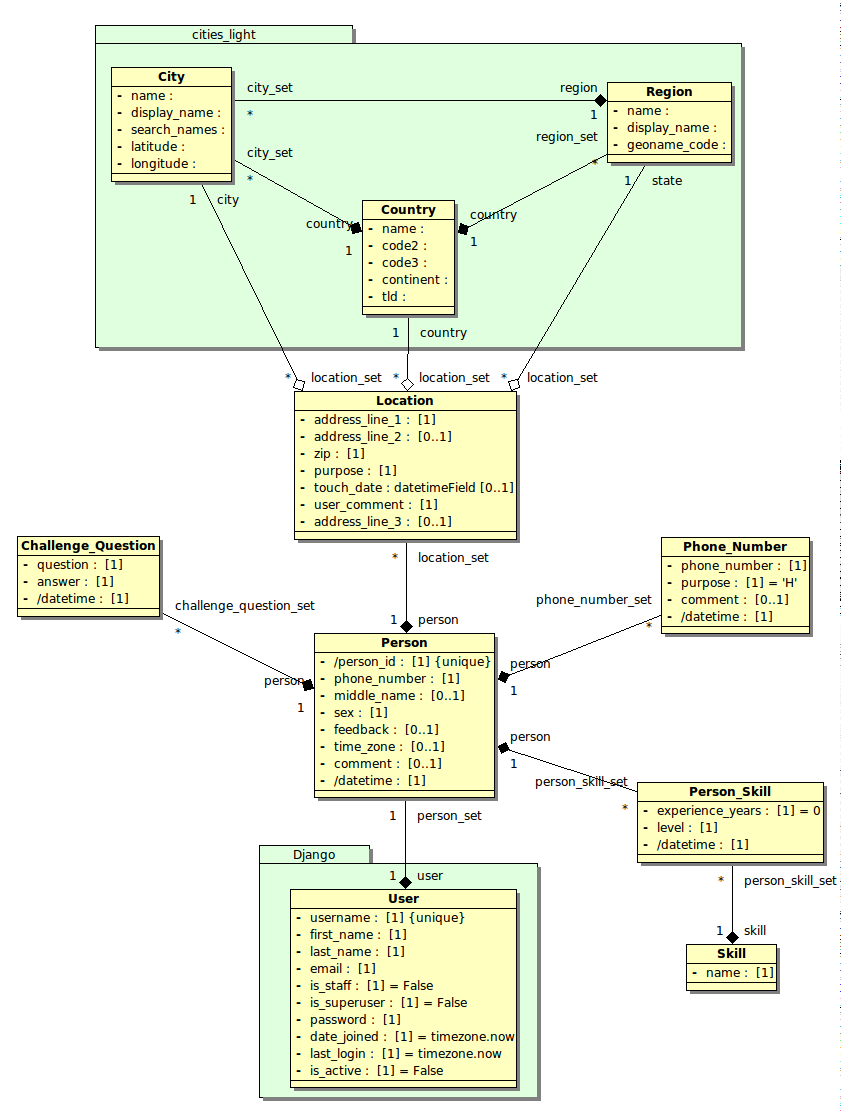
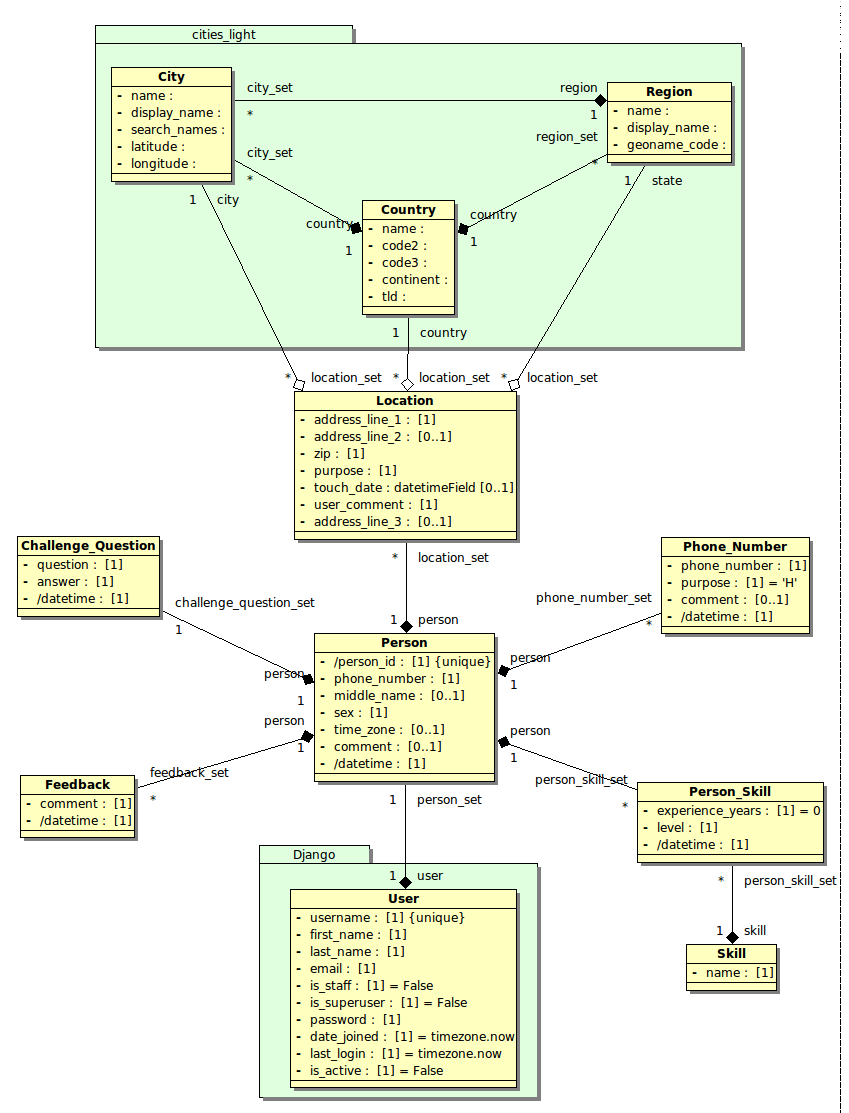
UML DB update

diff --git a/docs/bouml_DB/html doc/class141295.html b/docs/bouml_DB/html doc/class141295.html
@@ -30,20 +30,19 @@
 <table><tr><td><div class="element">Attribute <b>middle_name</b></div></td></tr></table>
 <p>Declaration :</p><ul><li>Uml : - middle_name : , multiplicity : 0..1</li><li>Python : self.middle_name = None<br /></li></ul><a name="refattribute137071"></a>
 <table><tr><td><div class="element">Attribute <b>sex</b></div></td></tr></table>
-<p>(('M', 'Male'), ('F', 'Female'))<br /></p><p>Declaration :</p><ul><li>Uml : - sex : , multiplicity : 1</li><li>Python : self.sex = None<br /></li></ul><a name="refattribute137583"></a>
-<table><tr><td><div class="element">Attribute <b>feedback</b></div></td></tr></table>
-<p>Feedback to CFGIO Large text field: What are we doing right, what are we doing wrong, and what can we do to serve your needs better? What are your priorities? Send CFGIO an email every time this field is changed.<br /></p><p>Declaration :</p><ul><li>Uml : - feedback : , multiplicity : 0..1</li><li>Python : self.feedback = None<br /></li></ul><a name="refattribute137711"></a>
+<p>(('M', 'Male'), ('F', 'Female'))<br /></p><p>Declaration :</p><ul><li>Uml : - sex : , multiplicity : 1</li><li>Python : self.sex = None<br /></li></ul><a name="refattribute137711"></a>
 <table><tr><td><div class="element">Attribute <b>time_zone</b></div></td></tr></table>
 <p>Declaration :</p><ul><li>Uml : - time_zone : , multiplicity : 0..1</li><li>Python : self.time_zone = None<br /></li></ul><a name="refattribute137839"></a>
 <table><tr><td><div class="element">Attribute <b>comment</b></div></td></tr></table>
 <p>internal CFGIO comment<br /></p><p>Declaration :</p><ul><li>Uml : - comment : , multiplicity : 0..1</li><li>Python : self.comment = None<br /></li></ul><a name="refrelation141935"></a>
-<table><tr><td><div class="element">Relation <b>challenge_question_set (&lt;composition&gt;)</b></div></td></tr></table><p>Declaration :</p><ul><li>Uml : - challenge_question_set : <a href="class147823.html#refclass147823"><b>Challenge_Question</b></a>, multiplicity : *</li><li>Python : self.challenge_question_set = <a href="class147823.html#refclass147823"><b>Challenge_Question</b></a>()<br /></li></ul><a name="refrelation142191"></a>
+<table><tr><td><div class="element">Relation <b>challenge_question_set (&lt;composition&gt;)</b></div></td></tr></table><p>Declaration :</p><ul><li>Uml : - challenge_question_set : <a href="class147823.html#refclass147823"><b>Challenge_Question</b></a>, multiplicity : 1</li><li>Python : self.challenge_question_set = <a href="class147823.html#refclass147823"><b>Challenge_Question</b></a>()<br /></li></ul><a name="refrelation142191"></a>
 <table><tr><td><div class="element">Relation <b>phone_number_set (&lt;composition&gt;)</b></div></td></tr></table><p>Declaration :</p><ul><li>Uml : - phone_number_set : <a href="class147951.html#refclass147951"><b>Phone_Number</b></a>, multiplicity : *</li><li>Python : self.phone_number_set = <a href="class147951.html#refclass147951"><b>Phone_Number</b></a>()<br /></li></ul><a name="refattribute141551"></a>
 <table><tr><td><div class="element">Attribute <b>datetime</b></div></td></tr></table>
 <p>auto_now_add=True<br /></p><p>Declaration :</p><ul><li>Uml : - datetime : , multiplicity : 1, derived</li><li>Python : self.datetime = None<br /></li></ul><a name="refrelation144751"></a>
 <table><tr><td><div class="element">Relation <b>person_skill_set (&lt;composition&gt;)</b></div></td></tr></table><p>Declaration :</p><ul><li>Uml : - person_skill_set : <a href="class148847.html#refclass148847"><b>Person_Skill</b></a>, multiplicity : *</li><li>Python : self.person_skill_set = <a href="class148847.html#refclass148847"><b>Person_Skill</b></a>()<br /></li></ul><a name="refrelation145391"></a>
 <table><tr><td><div class="element">Relation <b>project_set (&lt;composition&gt;)</b></div></td></tr></table><p>Declaration :</p><ul><li>Uml : - project_set : <a href="class149103.html#refclass149103"><b>Project</b></a>, multiplicity : *</li><li>Python : self.project_set = <a href="class149103.html#refclass149103"><b>Project</b></a>()<br /></li></ul><a name="refrelation152303"></a>
 <table><tr><td><div class="element">Relation <b>person_project_set (&lt;composition&gt;)</b></div></td></tr></table><p>Declaration :</p><ul><li>Uml : - person_project_set : <a href="class155631.html#refclass155631"><b>Person_Project</b></a>, multiplicity : *</li><li>Python : self.person_project_set = <a href="class155631.html#refclass155631"><b>Person_Project</b></a>()<br /></li></ul><a name="refrelation161007"></a>
-<table><tr><td><div class="element">Relation <b>project_comment_set (&lt;composition&gt;)</b></div></td></tr></table><p>personID (the person who commented on the project.  Anyone commenting has to register in order “to raise the level of discourse”. Can’t just let anybody comment. When prompting them to register, we state: “You can choose a screen name” and “We will not spam you or give your info to anybody”)<br /></p><p>Declaration :</p><ul><li>Uml : - project_comment_set : <a href="class162543.html#refclass162543"><b>Project_Comment</b></a>, multiplicity : *</li><li>Python : self.project_comment_set = <a href="class162543.html#refclass162543"><b>Project_Comment</b></a>()<br /></li></ul></div>
+<table><tr><td><div class="element">Relation <b>project_comment_set (&lt;composition&gt;)</b></div></td></tr></table><p>personID (the person who commented on the project.  Anyone commenting has to register in order “to raise the level of discourse”. Can’t just let anybody comment. When prompting them to register, we state: “You can choose a screen name” and “We will not spam you or give your info to anybody”)<br /></p><p>Declaration :</p><ul><li>Uml : - project_comment_set : <a href="class162543.html#refclass162543"><b>Project_Comment</b></a>, multiplicity : *</li><li>Python : self.project_comment_set = <a href="class162543.html#refclass162543"><b>Project_Comment</b></a>()<br /></li></ul><a name="refrelation167663"></a>
+<table><tr><td><div class="element">Relation <b>feedback_set (&lt;composition&gt;)</b></div></td></tr></table><p>Declaration :</p><ul><li>Uml : - feedback_set : <a href="class169071.html#refclass169071"><b>Feedback</b></a>, multiplicity : *</li><li>Python : self.feedback_set = <a href="class169071.html#refclass169071"><b>Feedback</b></a>()<br /></li></ul></div>
 </body>
 </html>

diff --git a/docs/bouml_DB/html doc/classes.html b/docs/bouml_DB/html doc/classes.html
@@ -23,7 +23,8 @@
 <tr bgcolor=#f0f0f0><td><a href="class162159.html#refclass162159" target = "projectFrame"><b>Connection_Approval</b></a></td><td></td><td>For internal mail system. Will you allow this person to connect  with you? Keep track of a lot of denials so that bad people can be blocked/banned.  Startups must carefully screen investors and get NDAs.</td></tr>
 <tr bgcolor=#f0f0f0><td><a href="class148207.html#refclass148207" target = "projectFrame"><b>Country</b></a></td><td></td><td></td></tr>
 <tr bgcolor=#f0f0f0><td><a href="class148591.html#refclass148591" target = "projectFrame"><b>Developer</b></a></td><td></td><td></td></tr>
-<tr bgcolor=#f0f0f0><td><a href="class141167.html#refclass141167" target = "projectFrame"><b>Location</b></a></td><td></td><td></td></tr>
+<tr bgcolor=#f0f0f0><td><a href="class169071.html#refclass169071" target = "projectFrame"><b>Feedback</b></a></td><td></td><td>Feedback to CFGIO Large text field: What are we doing right, what are we doing wrong, and what can we do to serve your needs better? What are your priorities? Send CFGIO an email every time the comment field is changed.</td></tr>
+<tr bgcolor=#f0f0f0><td><a href="class141167.html#refclass141167" target = "projectFrame"><b>Location</b></a></td><td></td><td>There's a physical security issue here. I think that admin should be able to see address for authentication purposes but it should be hidden from all users (developer-trainees, startups, investors). If user wants to email someone their address, that's their decision.  So can address please be masked?  The comment (hidden also) can be used for things like letting us know is it a business address, home address, etc.</td></tr>
 <tr bgcolor=#f0f0f0><td><a href="class162287.html#refclass162287" target = "projectFrame"><b>Mail_Send</b></a></td><td></td><td>for internal email.  This is how someone sends an internal email to someone.  Need code to copy this email data to recipient’s email box and set a flag stating “you have mail!”</td></tr>
 <tr bgcolor=#f0f0f0><td><a href="class141295.html#refclass141295" target = "projectFrame"><b>Person</b></a></td><td></td><td>Multi-table inheritance<br /><br />Person Supertype. All people are centralized here. Sub-types are in other tables. A person can belong to multiple groups (client and developer). “No one can see your personal info including name, email, phone, address”.</td></tr>
 <tr bgcolor=#f0f0f0><td><a href="class155631.html#refclass155631" target = "projectFrame"><b>Person_Project</b></a></td><td></td><td></td></tr>

diff --git a/docs/bouml_DB/html doc/class169071.html b/docs/bouml_DB/html doc/class169071.html
@@ -1,0 +1,29 @@
+<!-- Documentation produced by the Html generator of Bouml (http://bouml.free.fr) -->
+<?xml version="1.0" encoding="UTF-8"?>
+<!DOCTYPE html PUBLIC "-//W3C//DTD XHTML 1.0 Transitional//EN" "http://www.w3.org/TR/xhtml1/DTD/xhtml1-transitional.dtd">
+<html xmlns="http://www.w3.org/1999/xhtml">
+
+<head>
+<title>Class Feedback</title>
+<link rel="stylesheet" href="style.css" type="text/css" />
+</head>
+
+<body bgcolor="#ffffff">
+
+<div class = "title">Class Feedback</div>
+<p></p>
+
+<!-- ============================================================= -->
+
+<a name="refclass169071"></a>
+<p>Feedback to CFGIO Large text field: What are we doing right, what are we doing wrong, and what can we do to serve your needs better? What are your priorities? Send CFGIO an email every time the comment field is changed.<br /></p>
+<p>Declaration :</p><ul>
+<li>Python : class Feedback(object)</li></ul><div class="sub">
+<a name="refattribute166255"></a>
+<table><tr><td><div class="element">Attribute <b>comment</b></div></td></tr></table>
+<p>Declaration :</p><ul><li>Uml : - comment : , multiplicity : 1</li><li>Python : self.comment = None<br /></li></ul><a name="refattribute166383"></a>
+<table><tr><td><div class="element">Attribute <b>datetime</b></div></td></tr></table>
+<p>auto_now_add=True<br /></p><p>Declaration :</p><ul><li>Uml : - datetime : , multiplicity : 1, derived</li><li>Python : self.datetime = None<br /></li></ul><a name="refrelation167791"></a>
+<table><tr><td><div class="element">Relation <b>person (&lt;composition&gt;)</b></div></td></tr></table><p>Declaration :</p><ul><li>Uml : - person : <a href="class141295.html#refclass141295"><b>Person</b></a>, multiplicity : 1</li><li>Python : self.person = <a href="class141295.html#refclass141295"><b>Person</b></a>()<br /></li></ul></div>
+</body>
+</html>

diff --git a/docs/bouml_DB/html doc/index_76.html b/docs/bouml_DB/html doc/index_76.html
@@ -24,7 +24,7 @@
 <tr bgcolor=#f0f0f0><td><a href="index.html#refattribute140911" target = "projectFrame"><b>latitude</b></a></td><td>attribute</td><td></td></tr>
 <tr bgcolor=#f0f0f0><td><a href="index.html#refattribute151151" target = "projectFrame"><b>lessons_learned</b></a></td><td>attribute</td><td>long text.  This must be open to public so all can learn.  Don’t use anyone’s real name</td></tr>
 <tr bgcolor=#f0f0f0><td><a href="index.html#refattribute141935" target = "projectFrame"><b>level</b></a></td><td>attribute</td><td>(('A', 'A'), ('B', 'B'),  ('C', 'C'),  ('D', 'D'),  ('F', 'F'))</td></tr>
-<tr bgcolor=#f0f0f0><td><a href="class141167.html#refclass141167" target = "projectFrame"><b>Location</b></a></td><td>class</td><td></td></tr>
+<tr bgcolor=#f0f0f0><td><a href="class141167.html#refclass141167" target = "projectFrame"><b>Location</b></a></td><td>class</td><td>There's a physical security issue here. I think that admin should be able to see address for authentication purposes but it should be hidden from all users (developer-trainees, startups, investors). If user wants to email someone their address, that's their decision.  So can address please be masked?  The comment (hidden also) can be used for things like letting us know is it a business address, home address, etc.</td></tr>
 <tr bgcolor=#f0f0f0><td><a href="index.html#refrelation143983" target = "projectFrame"><b>location_set</b></a></td><td>relation</td><td></td></tr>
 <tr bgcolor=#f0f0f0><td><a href="index.html#refrelation144239" target = "projectFrame"><b>location_set</b></a></td><td>relation</td><td></td></tr>
 <tr bgcolor=#f0f0f0><td><a href="index.html#refrelation135279" target = "projectFrame"><b>location_set</b></a></td><td>relation</td><td></td></tr>

diff --git a/docs/bouml_DB/html doc/class162543.html b/docs/bouml_DB/html doc/class162543.html
@@ -20,7 +20,7 @@
 <li>Python : class Project_Comment(object)</li></ul><div class="sub">
 <a name="refrelation160623"></a>
 <table><tr><td><div class="element">Relation <b>project (&lt;composition&gt;)</b></div></td></tr></table><p>Declaration :</p><ul><li>Uml : - project : <a href="class149103.html#refclass149103"><b>Project</b></a>, multiplicity : 1</li><li>Python : self.project = <a href="class149103.html#refclass149103"><b>Project</b></a>()<br /></li></ul><a name="refrelation161135"></a>
-<table><tr><td><div class="element">Relation <b>person (&lt;composition&gt;)</b></div></td></tr></table><p>Declaration :</p><ul><li>Uml : - person : <a href="class141295.html#refclass141295"><b>Person</b></a>, multiplicity : 1</li><li>Python : self.person = <a href="class141295.html#refclass141295"><b>Person</b></a>()<br /></li></ul><a name="refattribute159599"></a>
+<table><tr><td><div class="element">Relation <b>&lt;composition&gt;</b></div></td></tr></table><p>Declaration :</p><ul><li>Uml : - person : <a href="class141295.html#refclass141295"><b>Person</b></a>, multiplicity : 1</li><li>Python : self.person = <a href="class141295.html#refclass141295"><b>Person</b></a>()<br /></li></ul><a name="refattribute159599"></a>
 <table><tr><td><div class="element">Attribute <b>comment</b></div></td></tr></table>
 <p>Declaration :</p><ul><li>Uml : - comment : , multiplicity : 1</li><li>Python : self.comment = None<br /></li></ul><a name="refattribute159727"></a>
 <table><tr><td><div class="element">Attribute <b>datetime_comment_submitted</b></div></td></tr></table>

diff --git a/docs/bouml_DB/html doc/index_80.html b/docs/bouml_DB/html doc/index_80.html
@@ -22,6 +22,7 @@
 <tr bgcolor=#f0f0f0><td><a href="index.html#refattribute149999" target = "projectFrame"><b>percent_prototype_completed</b></a></td><td>attribute</td><td></td></tr>
 <tr bgcolor=#f0f0f0><td><a href="index.html#refrelation142063" target = "projectFrame"><b>person</b></a></td><td>relation</td><td>(can postpone this for now if we are in a hurry. Clients can just email us for a new password and we manually send it to them) when user forgets passwords. 1:M (Not in a hurry to implement this.)</td></tr>
 <tr bgcolor=#f0f0f0><td><a href="class141295.html#refclass141295" target = "projectFrame"><b>Person</b></a></td><td>class</td><td>Multi-table inheritance<br /><br />Person Supertype. All people are centralized here. Sub-types are in other tables. A person can belong to multiple groups (client and developer). “No one can see your personal info including name, email, phone, address”.</td></tr>
+<tr bgcolor=#f0f0f0><td><a href="index.html#refrelation167791" target = "projectFrame"><b>person</b></a></td><td>relation</td><td></td></tr>
 <tr bgcolor=#f0f0f0><td><a href="index.html#refrelation135407" target = "projectFrame"><b>person</b></a></td><td>relation</td><td></td></tr>
 <tr bgcolor=#f0f0f0><td><a href="index.html#refrelation152431" target = "projectFrame"><b>person</b></a></td><td>relation</td><td></td></tr>
 <tr bgcolor=#f0f0f0><td><a href="index.html#refrelation144879" target = "projectFrame"><b>person</b></a></td><td>relation</td><td></td></tr>

diff --git a/docs/bouml_DB/html doc/index_70.html b/docs/bouml_DB/html doc/index_70.html
@@ -17,7 +17,8 @@
 
 <table>
 <tr bgcolor=#f0f0f0><td align=center><b>Name</b></td><td align=center><b>Kind</b></td><td align=center><b>Description</b></td></tr>
-<tr bgcolor=#f0f0f0><td><a href="index.html#refattribute137583" target = "projectFrame"><b>feedback</b></a></td><td>attribute</td><td>Feedback to CFGIO Large text field: What are we doing right, what are we doing wrong, and what can we do to serve your needs better? What are your priorities? Send CFGIO an email every time this field is changed.</td></tr>
+<tr bgcolor=#f0f0f0><td><a href="class169071.html#refclass169071" target = "projectFrame"><b>Feedback</b></a></td><td>class</td><td>Feedback to CFGIO Large text field: What are we doing right, what are we doing wrong, and what can we do to serve your needs better? What are your priorities? Send CFGIO an email every time the comment field is changed.</td></tr>
+<tr bgcolor=#f0f0f0><td><a href="index.html#refrelation167663" target = "projectFrame"><b>feedback_set</b></a></td><td>relation</td><td></td></tr>
 <tr bgcolor=#f0f0f0><td><a href="index.html#refattribute128367" target = "projectFrame"><b>first_name</b></a></td><td>attribute</td><td></td></tr>
 </table>
 </body>

diff --git a/docs/bouml_DB/html doc/index_68.html b/docs/bouml_DB/html doc/index_68.html
@@ -19,6 +19,7 @@
 <tr bgcolor=#f0f0f0><td align=center><b>Name</b></td><td align=center><b>Kind</b></td><td align=center><b>Description</b></td></tr>
 <tr bgcolor=#f0f0f0><td><a href="index.html#refattribute137199" target = "projectFrame"><b>date_joined</b></a></td><td>attribute</td><td></td></tr>
 <tr bgcolor=#f0f0f0><td><a href="index.html#refattribute138223" target = "projectFrame"><b>datetime</b></a></td><td>attribute</td><td>auto_now_add=True<br />record first created<br /></td></tr>
+<tr bgcolor=#f0f0f0><td><a href="index.html#refattribute166383" target = "projectFrame"><b>datetime</b></a></td><td>attribute</td><td>auto_now_add=True</td></tr>
 <tr bgcolor=#f0f0f0><td><a href="index.html#refattribute141551" target = "projectFrame"><b>datetime</b></a></td><td>attribute</td><td>auto_now_add=True</td></tr>
 <tr bgcolor=#f0f0f0><td><a href="index.html#refattribute158319" target = "projectFrame"><b>datetime</b></a></td><td>attribute</td><td>auto_now_add=True</td></tr>
 <tr bgcolor=#f0f0f0><td><a href="index.html#refattribute142063" target = "projectFrame"><b>datetime</b></a></td><td>attribute</td><td>auto_now_add=True</td></tr>

diff --git a/docs/bouml_DB/html doc/index_67.html b/docs/bouml_DB/html doc/index_67.html
@@ -29,6 +29,7 @@
 <tr bgcolor=#f0f0f0><td><a href="class148975.html#refclass148975" target = "projectFrame"><b>Client</b></a></td><td>class</td><td></td></tr>
 <tr bgcolor=#f0f0f0><td><a href="index.html#refattribute139631" target = "projectFrame"><b>code2</b></a></td><td>attribute</td><td></td></tr>
 <tr bgcolor=#f0f0f0><td><a href="index.html#refattribute139759" target = "projectFrame"><b>code3</b></a></td><td>attribute</td><td></td></tr>
+<tr bgcolor=#f0f0f0><td><a href="index.html#refattribute166255" target = "projectFrame"><b>comment</b></a></td><td>attribute</td><td></td></tr>
 <tr bgcolor=#f0f0f0><td><a href="index.html#refattribute137839" target = "projectFrame"><b>comment</b></a></td><td>attribute</td><td>internal CFGIO comment</td></tr>
 <tr bgcolor=#f0f0f0><td><a href="index.html#refattribute138607" target = "projectFrame"><b>comment</b></a></td><td>attribute</td><td></td></tr>
 <tr bgcolor=#f0f0f0><td><a href="index.html#refattribute151023" target = "projectFrame"><b>comment</b></a></td><td>attribute</td><td></td></tr>

diff --git a/docs/bouml_DB/html doc/class141167.html b/docs/bouml_DB/html doc/class141167.html
@@ -16,6 +16,7 @@
 <!-- ============================================================= -->
 
 <a name="refclass141167"></a>
+<p>There's a physical security issue here. I think that admin should be able to see address for authentication purposes but it should be hidden from all users (developer-trainees, startups, investors). If user wants to email someone their address, that's their decision.  So can address please be masked?  The comment (hidden also) can be used for things like letting us know is it a business address, home address, etc.<br /></p>
 <p>Declaration :</p><ul>
 <li>Python : class Location(object)</li></ul><div class="sub">
 <a name="refattribute129007"></a>

diff --git a/docs/bouml_DB/html doc/classes_list.html b/docs/bouml_DB/html doc/classes_list.html
@@ -24,6 +24,7 @@
 <a href="class162159.html#refclass162159" target = "projectFrame"><b>Connection_Approval</b></a><br />
 <a href="class148207.html#refclass148207" target = "projectFrame"><b>Country</b></a><br />
 <a href="class148591.html#refclass148591" target = "projectFrame"><b>Developer</b></a><br />
+<a href="class169071.html#refclass169071" target = "projectFrame"><b>Feedback</b></a><br />
 <a href="class141167.html#refclass141167" target = "projectFrame"><b>Location</b></a><br />
 <a href="class162287.html#refclass162287" target = "projectFrame"><b>Mail_Send</b></a><br />
 <a href="class141295.html#refclass141295" target = "projectFrame"><b>Person</b></a><br />

diff --git a/docs/bouml_DB/html doc/index.html b/docs/bouml_DB/html doc/index.html
@@ -90,6 +90,7 @@ Documentation</title>
 <table><tr><td><div class="element">Class <b><a href="class147951.html#refclass147951"><b>Phone_Number</b></a></b></div></td></tr></table>
 <table><tr><td><div class="element">Class <b><a href="class148719.html#refclass148719"><b>Skill</b></a></b></div></td></tr></table>
 <table><tr><td><div class="element">Class <b><a href="class148847.html#refclass148847"><b>Person_Skill</b></a></b></div></td></tr></table>
+<table><tr><td><div class="element">Class <b><a href="class169071.html#refclass169071"><b>Feedback</b></a></b></div></td></tr></table>
 </div>
 </div>
 <a name="refpackage141551"></a>
